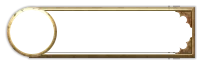
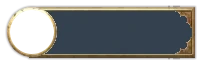
Refactor: Skill planner faction backgrounds, better size scaling extras drawer

diff --git a/frontend/src/pages/Planner.tsx b/frontend/src/pages/Planner.tsx
@@ -100,7 +100,10 @@ const Planner = () => {
           <TopBar effectiveRank={effectiveRank} />
           <CharacterPortrait />
           <div
-            className="grow max-h-[73vh] overflow-x-auto scrollbar-thin scrollbar-thumb-gray-500 scrollbar-track-gray-600"
+            className={
+              ' grow max-h-[73vh] min-h-[52vh] overflow-x-auto scrollbar-thin scrollbar-thumb-gray-500 scrollbar-track-gray-600 rounded-xl bg-left-top bg-local bg-no-repeat bg-cover' +
+              getBgUrl(faction)
+            }
             id="horScrollContainer"
             onWheel={(event) => {
               horizontalScroll(event);
@@ -121,6 +124,71 @@ const Planner = () => {
       )}
     </div>
   );
+};
+
+// Really verbose way of doing this, but tailwind needs the whole class present to generate it
+const getBgUrl = (selectedFaction: string | undefined) => {
+  let returnUrl = ' bg-[url(/imgs/other/bgs/default/bg.webp)]';
+  switch (selectedFaction) {
+    case 'brt_bretonnia':
+      returnUrl = ' bg-[url(/imgs/other/bgs/brt_bretonnia/bg.webp)]';
+      break;
+    case 'bst_beastmen':
+      returnUrl = ' bg-[url(/imgs/other/bgs/bst_beastmen/bg.webp)]';
+      break;
+    case 'chs_chaos':
+      returnUrl = ' bg-[url(/imgs/other/bgs/chs_chaos/bg.webp)]';
+      break;
+    case 'cst_vampire_coast':
+      returnUrl = ' bg-[url(/imgs/other/bgs/cst_vampire_coast/bg.webp)]';
+      break;
+    case 'cth_cathay':
+      returnUrl = ' bg-[url(/imgs/other/bgs/cth_cathay/bg.webp)]';
+      break;
+    case 'dae_daemons':
+      returnUrl = ' bg-[url(/imgs/other/bgs/dae_daemons/bg.webp)]';
+      break;
+    case 'def_dark_elves':
+      returnUrl = ' bg-[url(/imgs/other/bgs/def_dark_elves/bg.webp)]';
+      break;
+    case 'grn_greenskins':
+      returnUrl = ' bg-[url(/imgs/other/bgs/grn_greenskins/bg.webp)]';
+      break;
+    case 'kho_khorne':
+      returnUrl = ' bg-[url(/imgs/other/bgs/kho_khorne/bg.webp)]';
+      break;
+    case 'ksl_kislev':
+      returnUrl = ' bg-[url(/imgs/other/bgs/ksl_kislev/bg.webp)]';
+      break;
+    case 'lzd_lizardmen':
+      returnUrl = ' bg-[url(/imgs/other/bgs/lzd_lizardmen/bg.webp)]';
+      break;
+    case 'nur_nurgle':
+      returnUrl = ' bg-[url(/imgs/other/bgs/nur_nurgle/bg.webp)]';
+      break;
+    case 'ogr_ogre_kingdoms':
+      returnUrl = ' bg-[url(/imgs/other/bgs/ogr_ogre_kingdoms/bg.webp)]';
+      break;
+    case 'skv_skaven':
+      returnUrl = ' bg-[url(/imgs/other/bgs/skv_skaven/bg.webp)]';
+      break;
+    case 'sla_slaanesh':
+      returnUrl = ' bg-[url(/imgs/other/bgs/sla_slaanesh/bg.webp)]';
+      break;
+    case 'tmb_tomb_kings':
+      returnUrl = ' bg-[url(/imgs/other/bgs/tmb_tomb_kings/bg.webp)]';
+      break;
+    case 'tze_tzeentch':
+      returnUrl = ' bg-[url(/imgs/other/bgs/tze_tzeentch/bg.webp)]';
+      break;
+    case 'vmp_vampire_counts':
+      returnUrl = ' bg-[url(/imgs/other/bgs/vmp_vampire_counts/bg.webp)]';
+      break;
+    default:
+      returnUrl = ' bg-[url(/imgs/other/bgs/default/bg.webp)]';
+      break;
+  }
+  return returnUrl;
 };
 
 export default Planner;

diff --git a/frontend/src/components/Planner/SkillCell.tsx b/frontend/src/components/Planner/SkillCell.tsx
@@ -224,7 +224,7 @@ const SkillCell = ({ skill, skillKey, yIndex, xIndex, boxedType }: SkillCellProp
       ' filter-none bg-[url(/imgs/other/skills_tab_frame.webp)] hover:bg-[url(/imgs/other/skills_tab_frame_hover.webp)]';
   } else if (thisSkillsCurrentPoints === 0 && !selectable) {
     divClassName +=
-      ' bg-[url(/imgs/other/skills_tab_frame.webp)] hover:bg-[url(/imgs/other/skills_tab_frame_hover.webp)] opacity-40 hover:opacity-100 filter grayscale hover:filter-none hover:grayscale-0';
+      ' bg-[url(/imgs/other/skills_tab_frame.webp)] hover:bg-[url(/imgs/other/skills_tab_frame_hover.webp)] brightness-[70%] filter grayscale hover:filter-none hover:grayscale-0';
   }
 
   let tdClassName = 'flex flex-row w-max h-auto my-1 border relative';

diff --git a/frontend/src/components/Planner/ExtrasDrawer.tsx b/frontend/src/components/Planner/ExtrasDrawer.tsx
@@ -12,13 +12,13 @@ const ExtrasDrawer = () => {
 
   let drawerClass = 'flex flex-row place-content-evenly';
   if (open) {
-    drawerClass += ' h-44 mt-1.5 show';
+    drawerClass += ' mt-1.5 show h-[20vh]';
   } else {
-    drawerClass += ' h-0';
+    drawerClass += ' h-[0vh]';
   }
 
   return (
-    <>
+    <div className="flex flex-col">
       <button
         className="w-3/4 mx-auto h-6 bg-gray-400/70 hover:bg-gray-300/60 mt-1 rounded-xl hover-scale"
         onClick={() => {
@@ -34,7 +34,7 @@ const ExtrasDrawer = () => {
         )}
         <BuildStorage />
       </div>
-    </>
+    </div>
   );
 };
 

diff --git a/frontend/src/tailwind.css b/frontend/src/tailwind.css
@@ -62,7 +62,8 @@
 
   #slide-out {
     opacity: 0;
-    transition: opacity .25s, height .25s;
+    transition: height .33s, opacity .33s;
+    overflow: hidden;
   }
 
   #slide-out.show {
